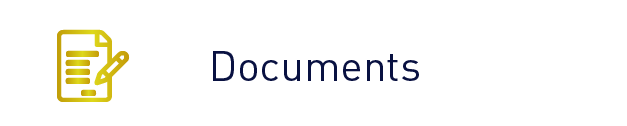
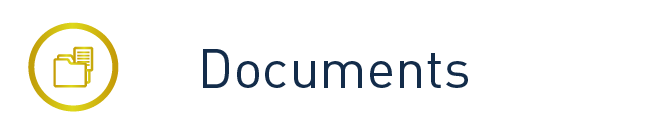
added new document button to menu options

Changed region(s): [[0.303, 0.3571, 0.7273, 0.6667], [0.0303, 0.1667, 0.2121, 0.8571]]

diff --git a/src/screens/MenuOptions.js b/src/screens/MenuOptions.js
@@ -19,6 +19,7 @@ import wallet from "../components/buttons/walletButton.png";
 import settings from "../components/buttons/settingsButton.png";
 import registerAsset from "../components/buttons/registerAssetButton.png"
 import profileButton from "../components/buttons/profileButton.png"
+import documentButton from "../components/buttons/document.png"
 
 import styles from "../assets/styles";
 import { connect } from "react-redux";
@@ -58,7 +59,7 @@ class MenuOptions extends Component {
                         </TouchableHighlight>
                     </View>
                     <TouchableHighlight style={localStyles.touchableHighlight}
-                    onPress={() => navigate("Splash1")}>
+                        onPress={() => navigate("Splash1")}>
                         <Image style={localStyles.menuButton} source={supplyChain} />
                     </TouchableHighlight>
 
@@ -81,7 +82,7 @@ class MenuOptions extends Component {
                     </TouchableHighlight> */}
 
                     <TouchableHighlight style={localStyles.touchableHighlight} onPress={() => navigate("DocumentStorage")}>
-                        <Image style={localStyles.menuButton} source={settings} />
+                        <Image style={localStyles.menuButton} source={documentButton} />
                     </TouchableHighlight>
 
                     <Text style={{ color: "#f3c736", alignSelf: "flex-end", fontSize: 8 }}>
@@ -104,7 +105,7 @@ const mapDispatchToProps = dispatch => ({
     clearState: () => dispatch(clearState())
 });
 
-export default connect( mapStateToProps, mapDispatchToProps )(MenuOptions);
+export default connect(mapStateToProps, mapDispatchToProps)(MenuOptions);
 
 const localStyles = StyleSheet.create({
     touchableHighlight: {
